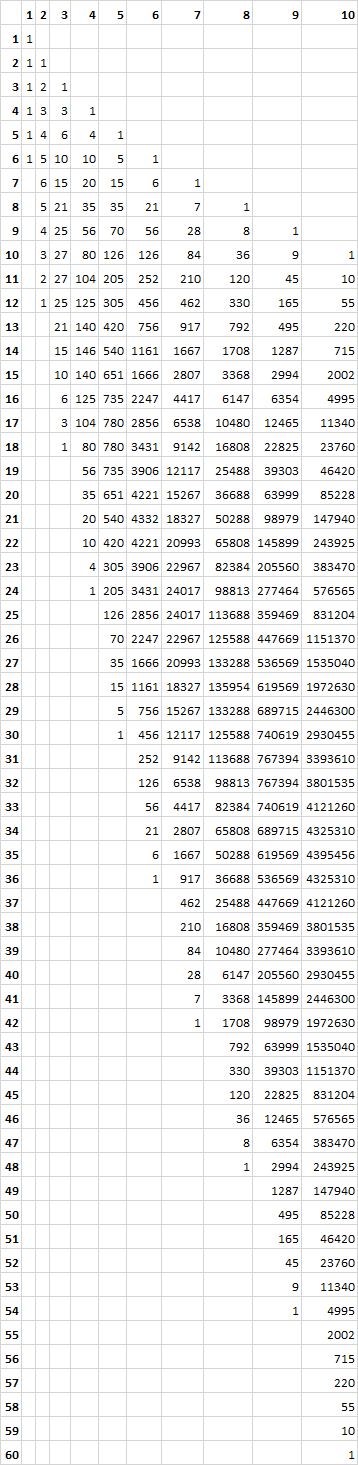
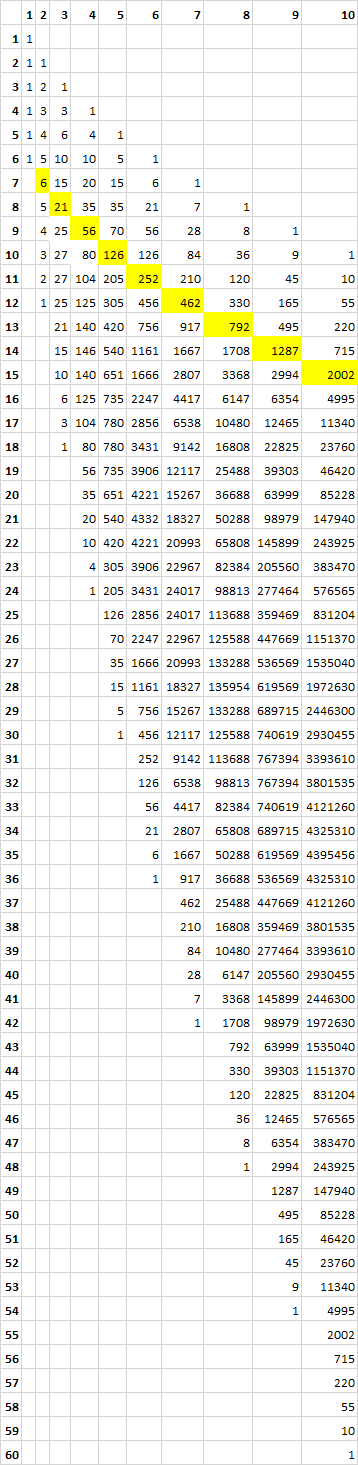
added i32

Changed region(s): [[0.0922, 0.0922, 1.0, 0.2765]]

diff --git a/labmat3/lab2.html b/labmat3/lab2.html
@@ -11,7 +11,7 @@
 
 <br><br>
 
-tabela pomocnicza <br>
+dodatkowe obliczenia w tabeli pomocniczej (metodą wstępującą) <br>
 
 <br><img src="I32.png">
 
